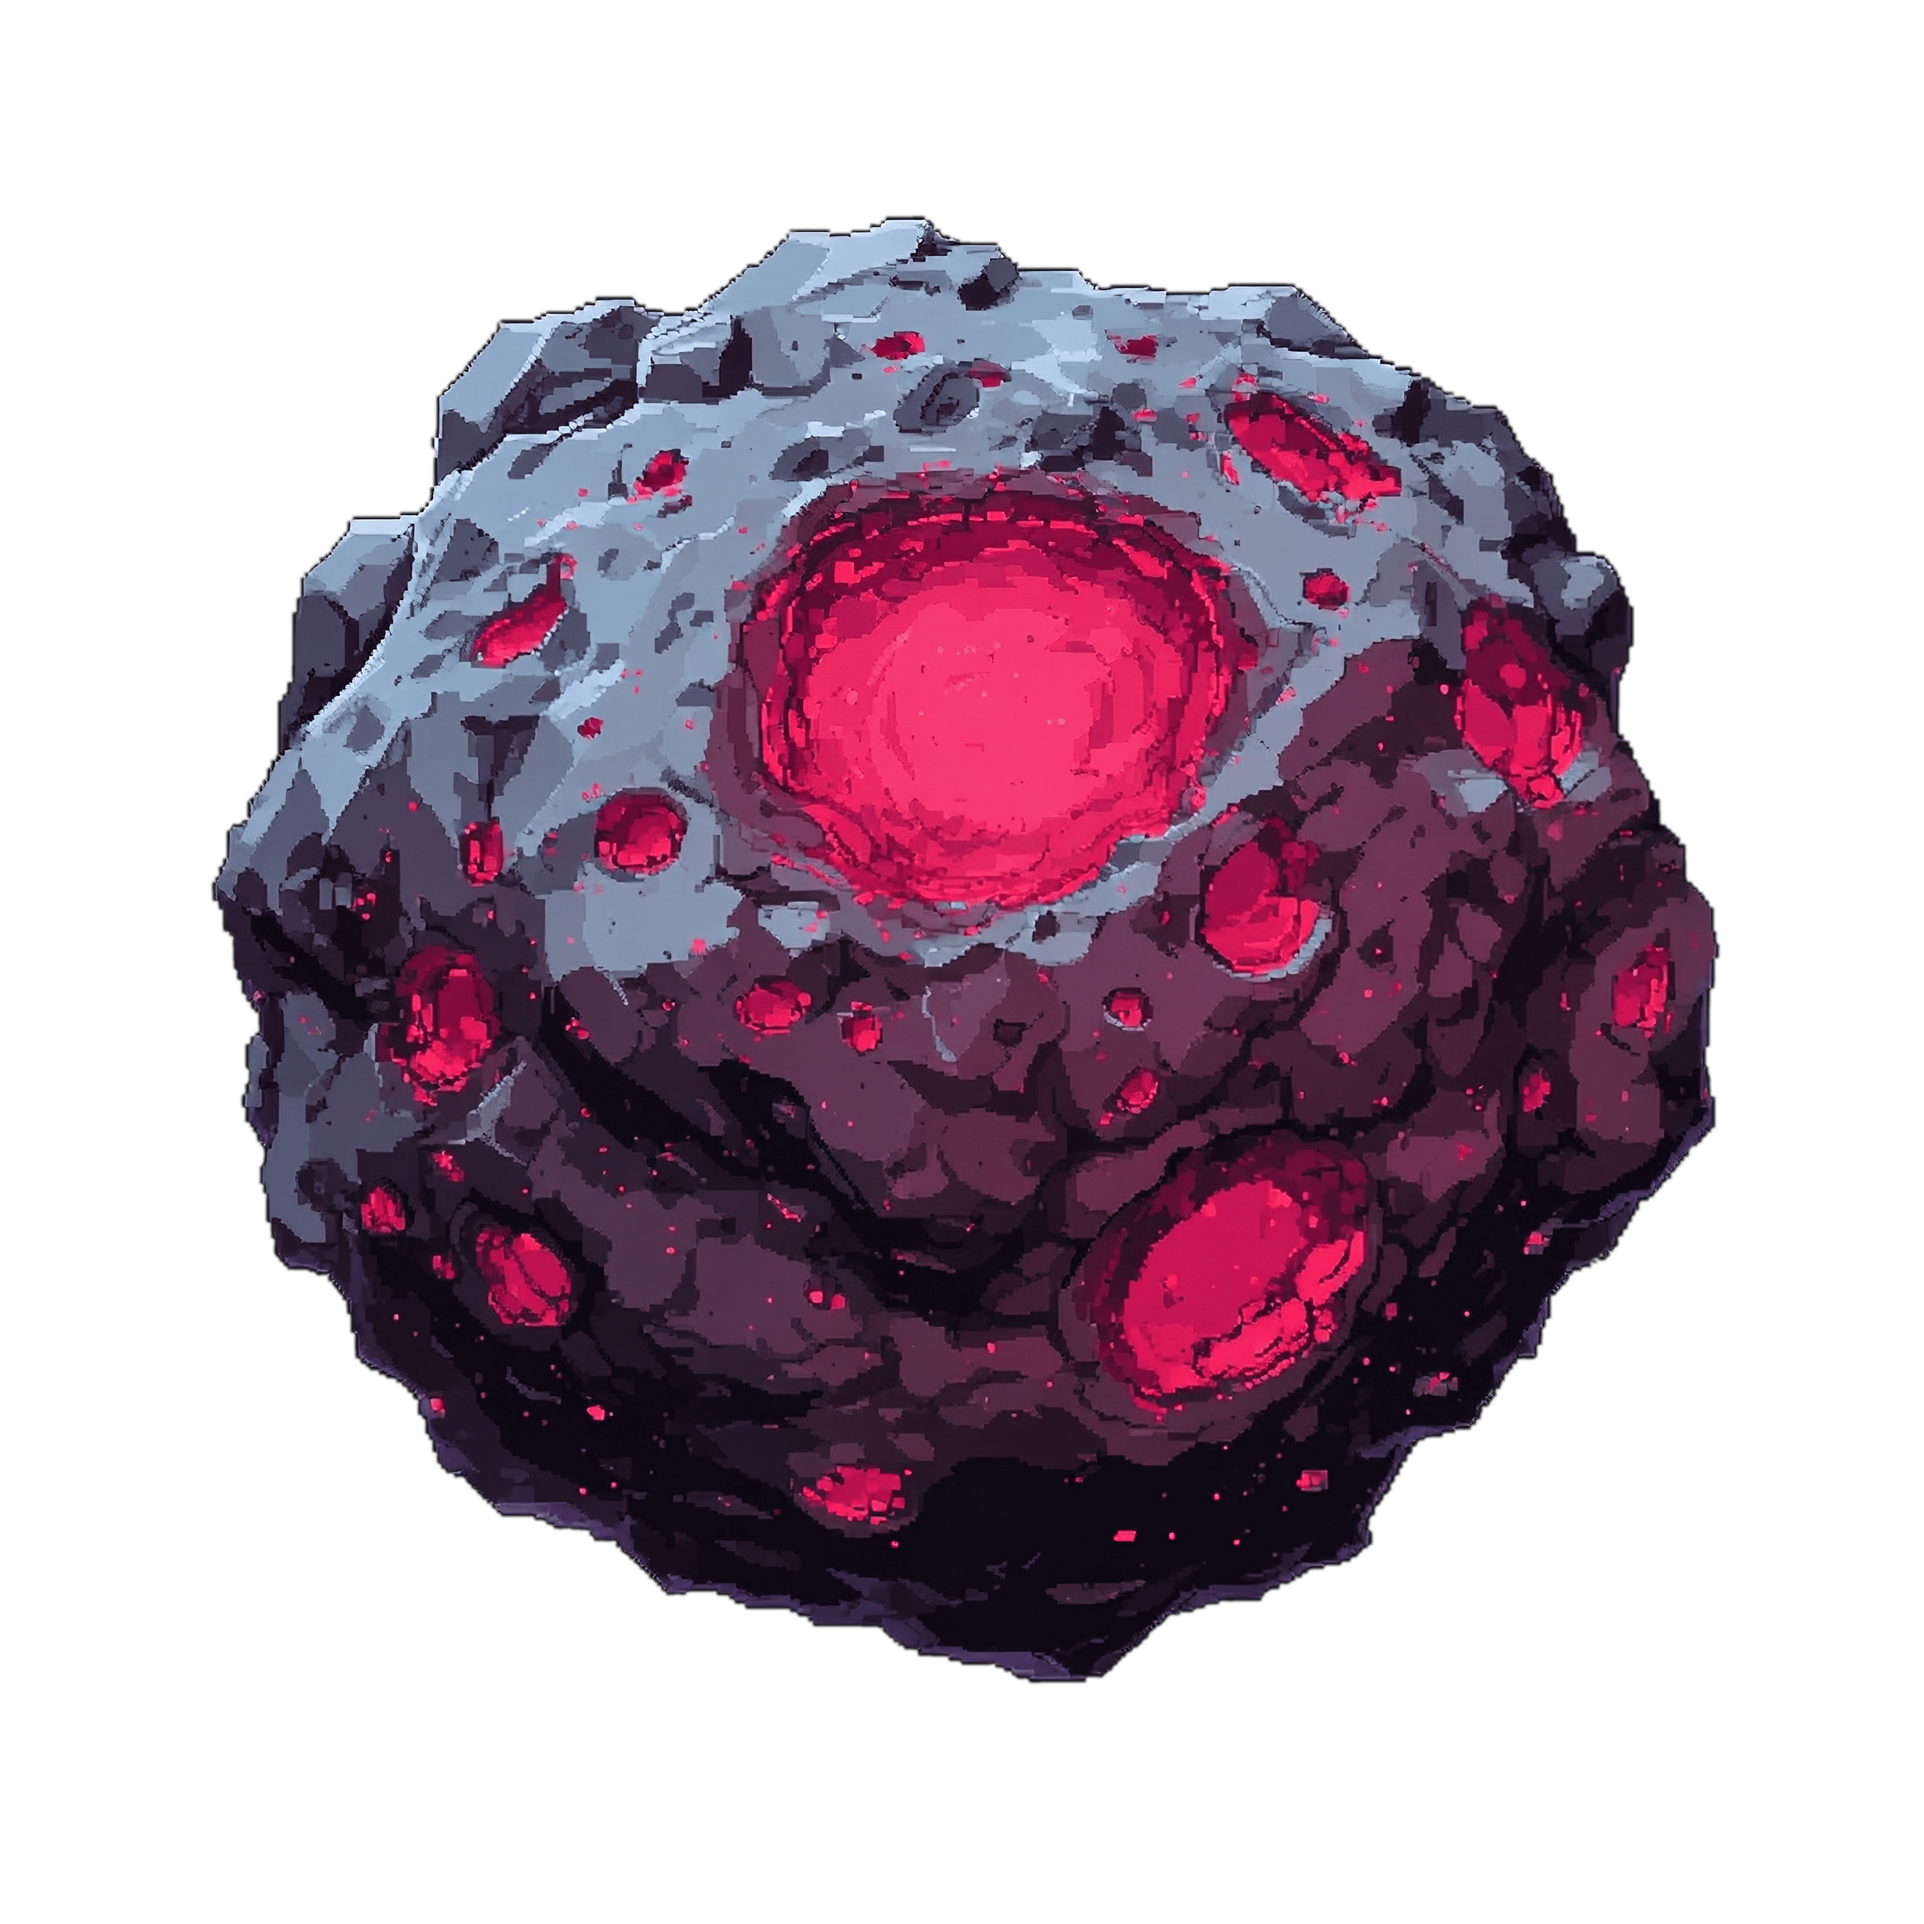
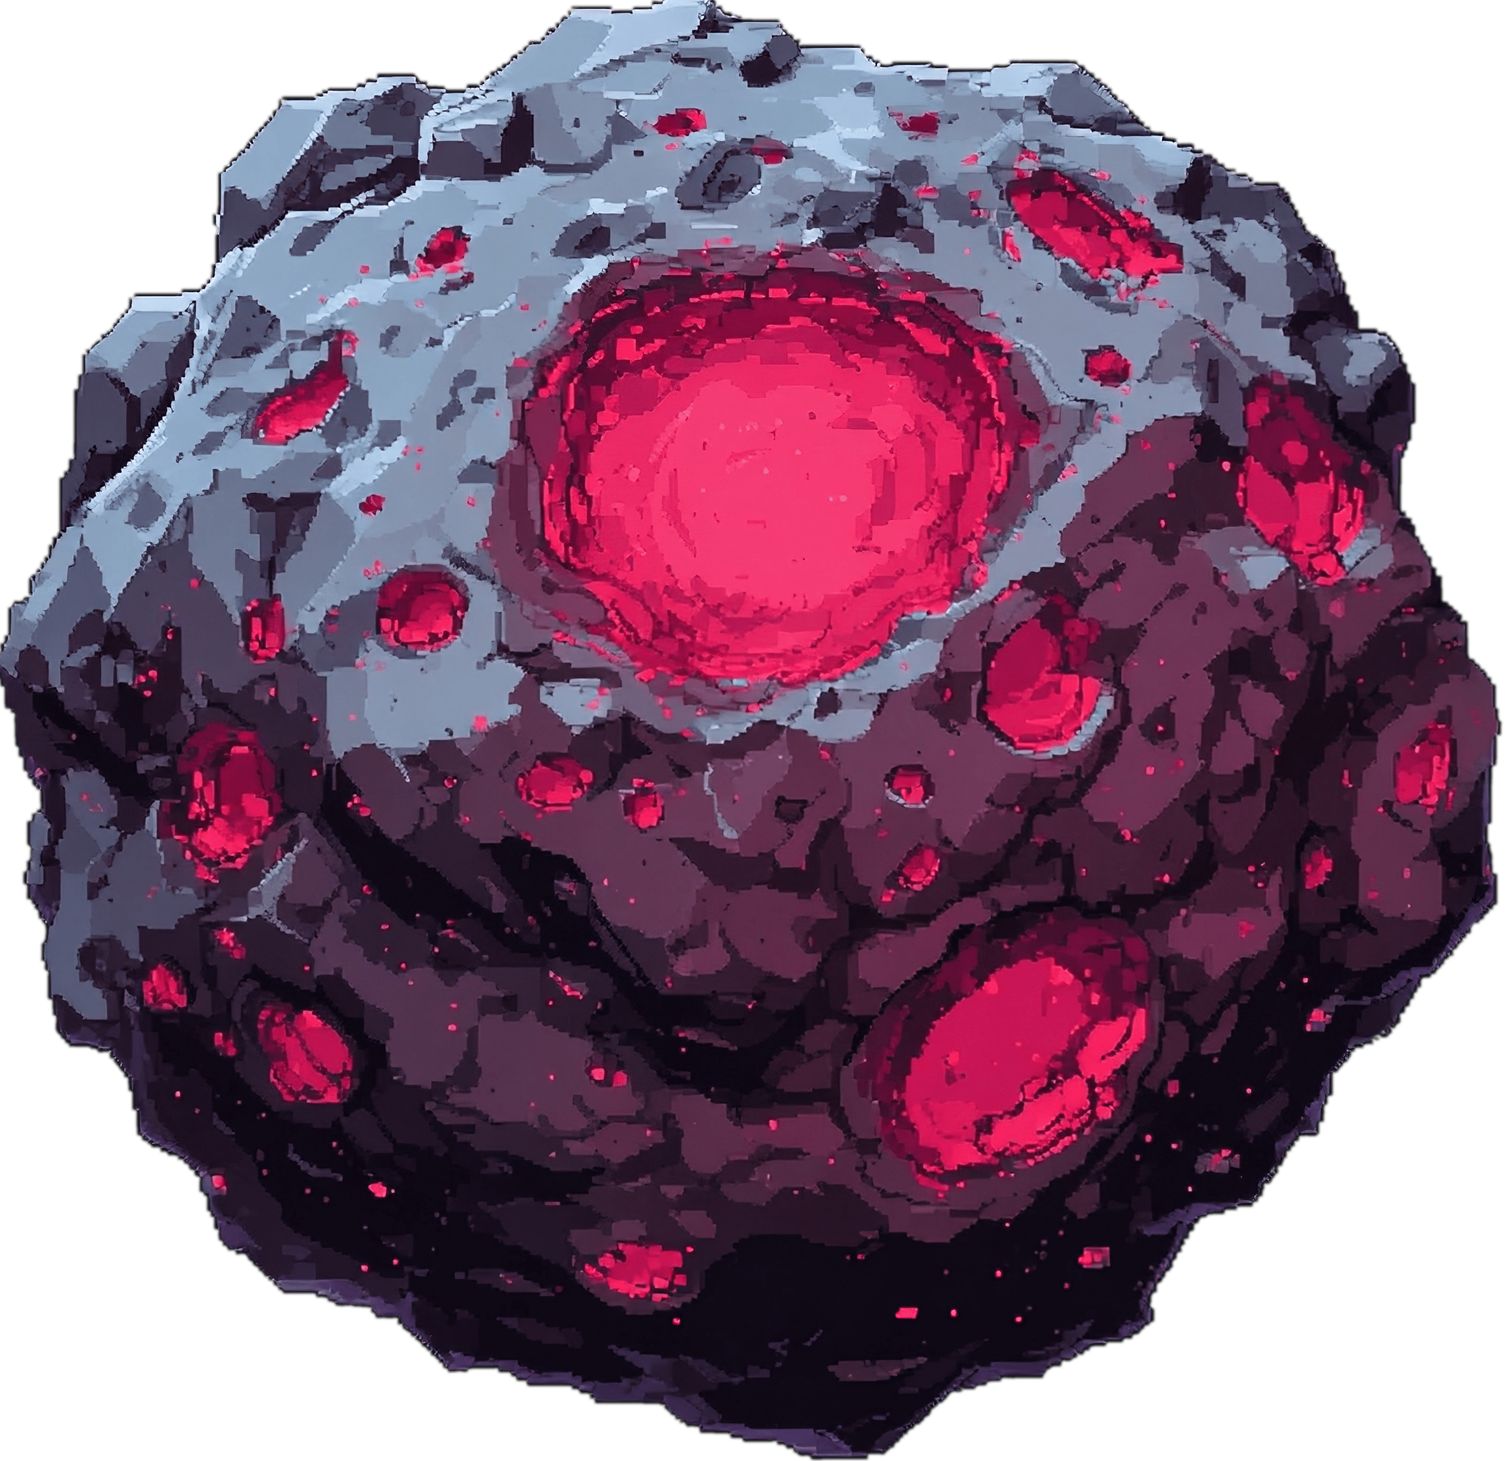
занятие 03.08

diff --git a/sofa/space_war.py b/sofa/space_war.py
@@ -1,9 +1,15 @@
 import pygame
 import random
+import os
 
 pygame.init()
 
 clock = pygame.time.Clock()
+
+# Папка, где лежит сам скрипт
+BASE_DIR = os.path.dirname(os.path.abspath(__file__))
+# Папка с ассетами
+ASSETS_DIR = os.path.join(BASE_DIR, "assets")
 
 #ширина окна
 WIDTH = 800
@@ -45,7 +51,7 @@ meteorit_radius = 15 * 4
 meteorit_speed = 5
 
 #радиус снаряда
-bullet_radius = 45
+bullet_radius = 25
 #скорость снаряда
 bullet_speed = 7
 
@@ -63,22 +69,22 @@ lives = 3
 font = pygame.font.SysFont(None, 23)
 
 paused = False
-
+music = True
 running = True
 
-background_image = pygame.image.load("assets/background.png").convert()
+background_image = pygame.image.load(os.path.join(ASSETS_DIR, "background.png")).convert()
 background_image = pygame.transform.scale(background_image, (WIDTH, HEIGHT))
 
-spaceship_image = pygame.image.load("assets/spaceship.png").convert_alpha()
+spaceship_image = pygame.image.load(os.path.join(ASSETS_DIR, "spaceship.png")).convert_alpha()
 spaceship_image = pygame.transform.scale(spaceship_image, (spaceship_width, spaceship_height))
 
-meteorit_image = pygame.image.load("assets/meteorit.png").convert_alpha()
+meteorit_image = pygame.image.load(os.path.join(ASSETS_DIR, "meteorit.png")).convert_alpha()
 meteorit_image = pygame.transform.scale(meteorit_image, (meteorit_radius, meteorit_radius))
 
-bullet_image = pygame.image.load("assets/bullet.png").convert_alpha()
+bullet_image = pygame.image.load(os.path.join(ASSETS_DIR, "bullet.png")).convert_alpha()
 bullet_image = pygame.transform.scale(bullet_image, (bullet_radius, bullet_radius))
 
-pygame.mixer.music.load("assets/main_track.mp3")
+pygame.mixer.music.load(os.path.join(ASSETS_DIR, "main_track.mp3"))
 pygame.mixer.music.set_volume(0.15)
 pygame.mixer.music.play(-1)
 
@@ -90,11 +96,21 @@ while running:
                 bullets.append({"x": spaceship_x + spaceship_width, "y": spaceship_y + (spaceship_height // 2)})
         if event.type == pygame.KEYDOWN:
             if event.key == pygame.K_TAB:
+                if paused:
+                    pygame.mixer.music.unpause()
+                else:
+                    pygame.mixer.music.pause()
                 paused = not paused
-
+            if event.key == pygame.K_c:
+                music = not music
+                if music:
+                    pygame.mixer.music.unpause()
+                else:
+                    pygame.mixer.music.pause()
+                
     if not paused:
         keys = pygame.key.get_pressed()
-
+        
         # Логика передвижения корабля
         if keys[pygame.K_UP] or keys[pygame.K_w]:
             spaceship_y -= spaceship_speed
@@ -139,7 +155,7 @@ while running:
                 hit = True
 
             for bullet in bullets:
-                bullet_rect = pygame.Rect(bullet["x"] - bullet_radius, bullet["y"] - bullet_radius, bullet_radius * 2, bullet_radius * 2)
+                bullet_rect = pygame.Rect(bullet["x"] - bullet_radius // 2, bullet["y"] - bullet_radius // 2, bullet_radius, bullet_radius)
                 
                 if bullet_rect.colliderect(meteorit_rect):
                     hit = True
@@ -160,7 +176,7 @@ while running:
         screen.blit(meteorit_image, (meteorit["x"] - meteorit_radius, meteorit["y"] - meteorit_radius))
         
     for bullet in bullets:
-        screen.blit(bullet_image, (bullet["x"] - bullet_radius, bullet["y"] - bullet_radius))
+        screen.blit(bullet_image, (bullet["x"] - bullet_radius // 2, bullet["y"] - bullet_radius // 2))
         
     screen.blit(spaceship_image, (spaceship_x, spaceship_y))
     
@@ -174,8 +190,11 @@ while running:
 
     if paused:
         paused_text = font.render("Пауза!", True, (255, 255, 255))
+        control_text = font.render("WS - управление, E - выстрел, TAB - пауза/продолжить, C - включить/выключить музыку", True, (255, 255, 255))
         pause_rect = paused_text.get_rect(center = (WIDTH // 2, HEIGHT // 2))
+        control_rect = control_text.get_rect(center = (WIDTH // 2, HEIGHT // 2 - 40))
         screen.blit(paused_text, pause_rect)
+        screen.blit(control_text, control_rect)
 
     pygame.display.flip()
 
@@ -213,6 +232,6 @@ pygame.quit()
 
 
 #TODO:
-# 2. ограничение области летания корабля, чтобы не залетал за надписи
-# 5. Добавить звуки
-# 6. добавить комментарии
+# 1. Начальный экран
+# 2. окно проигрыша
+# 3. добавить комментарии

diff --git a/ksu/snake_project/snake.py b/ksu/snake_project/snake.py
@@ -1,5 +1,6 @@
 import pygame
 import random
+import os
 
 pygame.init()
 
@@ -10,6 +11,10 @@ score = 0
 
 #начальное направление 
 direction = 'RIGHT'
+
+# папки - пути
+BASE_DIR = os.path.dirname(os.path.abspath(__file__))
+ASSETS_DIR = os.path.join(BASE_DIR, 'snake_assets')
 
 # размеры экрана и блока
 WIDTH = 1000
@@ -34,10 +39,14 @@ screen = pygame.display.set_mode((WIDTH, HEIGHT))
 
 pygame.display.set_caption("Змейка")
 
-score_font = pygame.font.Font('train_python\ksu\snake_project\snake_assets\DigitalNumbers-Regular.ttf', 30)
+# score_font = pygame.font.Font('train_python\ksu\snake_project\snake_assets\DigitalNumbers-Regular.ttf', 30)
 
-# -> font.font script b/ Climate Crisis/ impact
-pause_font = pygame.font.Font('train_python\ksu\snake_project\snake_assets\en-us.ttf', 25)
+# # -> font.font script b/ Climate Crisis/ impact
+# pause_font = pygame.font.Font('train_python\ksu\snake_project\snake_assets\en-us.ttf', 25)
+
+score_font = pygame.font.Font(os.path.join(ASSETS_DIR, 'DigitalNumbers-Regular.ttf'), 30)
+
+pause_font = pygame.font.Font(os.path.join(ASSETS_DIR, 'en-us.ttf'), 25)
 
 #голова
 snake_position = [100, 160]
@@ -46,10 +55,6 @@ snake_position = [100, 160]
 snake_body = [
     [100, 100],
     [80, 100]
-]
-
-obstacles = [
-    
 ]
 
 #ивент на время для еды
@@ -63,6 +68,31 @@ boost_start = 0
 boost_event = pygame.USEREVENT +2 
 pygame.time.set_timer(boost_event, 45000)
 current_boost = []
+
+obstacles = []
+current_obstacles = []
+
+obstacle_event = pygame.USEREVENT + 3
+pygame.time.set_timer(obstacle_event, 25000)
+
+# препятствие
+def get_obstacle():
+    if len(current_obstacles) < 1:
+        base_obstacle_block = [
+            random.randrange(FIELD_LEFT + 2 * BLOCK, FIELD_RIGHT - 2 * BLOCK, BLOCK), 
+            random.randrange(FIELD_UP + 2 * BLOCK, FIELD_DOWN - 2 * BLOCK, BLOCK)
+            ]
+        
+        obstacles.append([ [base_obstacle_block[0] - 20, base_obstacle_block[1]], base_obstacle_block[0] ], [base_obstacle_block, [base_obstacle_block[0] +20, base_obstacle_block[1]] ],
+        [base_obstacle_block, [base_obstacle_block[0] +20, base_obstacle_block[1]], [base_obstacle_block[0], base_obstacle_block[1] + 20], [base_obstacle_block[0] + 20, base_obstacle_block[1] + 20] ],
+        [base_obstacle_block, [base_obstacle_block[0] +20, base_obstacle_block[1]], [base_obstacle_block[0], base_obstacle_block[1] + 20], [base_obstacle_block[0] + 20, base_obstacle_block[1] + 20], 
+        [base_obstacle_block[0] + 20, base_obstacle_block[1] - 20] ], [base_obstacle_block, [base_obstacle_block[0] - 20, base_obstacle_block[1]], [base_obstacle_block[0] +20, base_obstacle_block[1]] ])
+
+        figure = random.choice(obstacles)
+
+        if 
+        current_obstacles.append(figure)
+    
 
 #периодическое появление еды. не больше 4 за раз
 def get_food():
